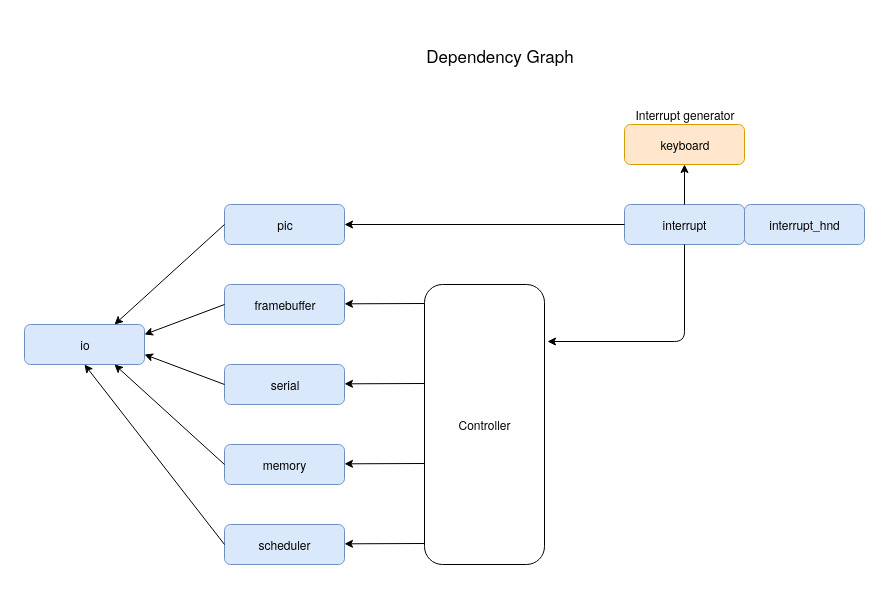
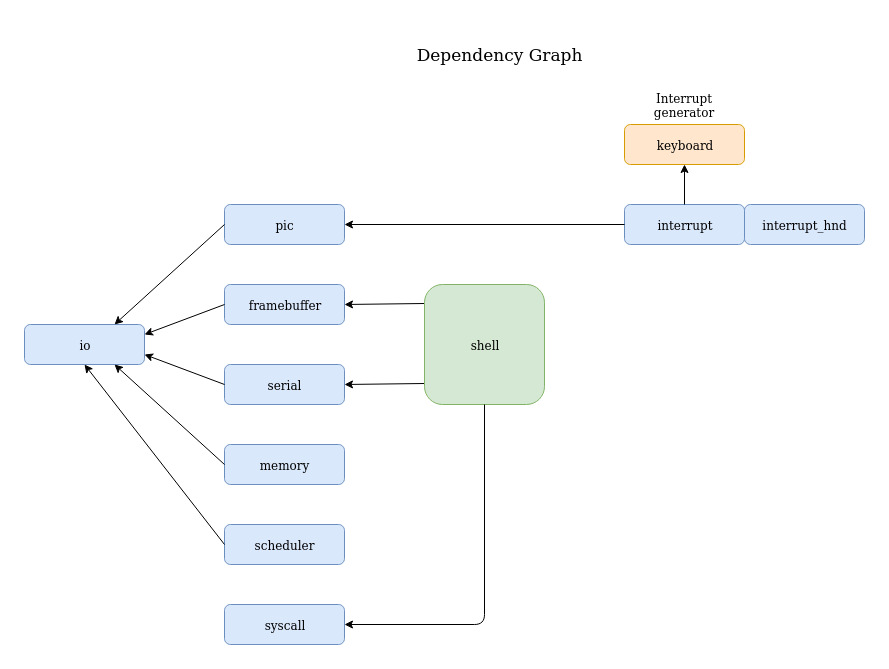
syscall interface, keyboard event cb register in syscall, rename controller->shell

diff --git a/interrupt.c b/interrupt.c
@@ -1,8 +1,8 @@
 #include "interrupt.h"
 #include "pic.h"
 #include "keyboard.h"
-#include "controller.h"
 #include "utils/debug.h"
+#include "syscall.h" // TODO remove when we move keyboard press to queue in ISR_KEYBOARD
 
 extern void asm_int_handler_33(); // Handler for keyboard press
 
@@ -51,7 +51,9 @@ void lidt (struct idt *idt_r)
 void ISR_KEYBOARD(void) {
     unsigned char scan_code = read_scan_code();
     unsigned char ascii = scan_code_to_ascii(scan_code);
-    controller_handle_keypress(ascii);
+    _kb_handler_cb(ascii);
+    // TODO put ascii in a queue for kmain to process instead of calling it here
+    // We will get rid of syscall in interrupt.c this way.
 }
 
 void interrupt_init_idt(void) {

diff --git a/kmain.c b/kmain.c
@@ -2,6 +2,7 @@
 #include "framebuffer.h"
 #include "interrupt.h"
 #include "pic.h"
+#include "syscall.h"
 #include "utils/debug.h"
 
 char greeting[] = "Hi! Welcome to Thuan's OS! You're now in 32-bit Protected Mode.\0";
@@ -29,10 +30,11 @@ void kmain() {
     test_memory_32bit_mode();
 
     interrupt_init_idt();
-    pic_init();    
+    pic_init();
 
     //write_str(msg_fb_test, 0, sizeof(msg_fb_test));
-
+    shell_init();
+    
     while (1) {
         
     }

diff --git a/shell.c b/shell.c
@@ -1,0 +1,13 @@
+#include "framebuffer.h"
+#include "serial.h"
+#include "syscall.h"
+#include "shell.h"
+
+void shell_init() {
+    syscall_register_kb_handler(shell_handle_keypress);
+}
+
+void shell_handle_keypress(unsigned char ascii) {
+    if (ascii == 0) return;
+    write_cell(320, ascii, FB_BLACK, FB_WHITE);
+}

diff --git a/include/syscall.h b/include/syscall.h
@@ -1,0 +1,8 @@
+#ifndef INCLUDE_SYSCALL_H
+#define INCLUDE_SYSCALL_H
+// Global keyboard press handler. Userland will register with this.
+void (*_kb_handler_cb)(unsigned char c);
+
+// Subscribe to keyboard events.
+void syscall_register_kb_handler(void (*kb_handler)(unsigned char c));
+#endif

diff --git a/syscall.c b/syscall.c
@@ -1,0 +1,9 @@
+/* This is a way to let userland applications (such as shell)
+ * subscribe to appropriate interrupts (such as keyboard press).
+ * */
+
+#include "syscall.h"
+
+void syscall_register_kb_handler(void (*kb_handler)(unsigned char c)) {
+    _kb_handler_cb = kb_handler;
+}

diff --git a/include/shell.h b/include/shell.h
@@ -1,0 +1,5 @@
+#ifndef INCLUDE_SHELL_H
+#define INCLUDE_SHELL_H
+void shell_handle_keypress(unsigned char ascii);
+void shell_init();
+#endif

diff --git a/utils/string.c b/utils/string.c
@@ -1,4 +1,4 @@
-#include "string.h"
+#include "utils/string.h"
 
 unsigned int _strlen(char *s) {
     unsigned int ret = 0;

diff --git a/utils/queue.c b/utils/queue.c
@@ -1,2 +1,2 @@
-#include "queue.h"
+#include "utils/queue.h"
 
